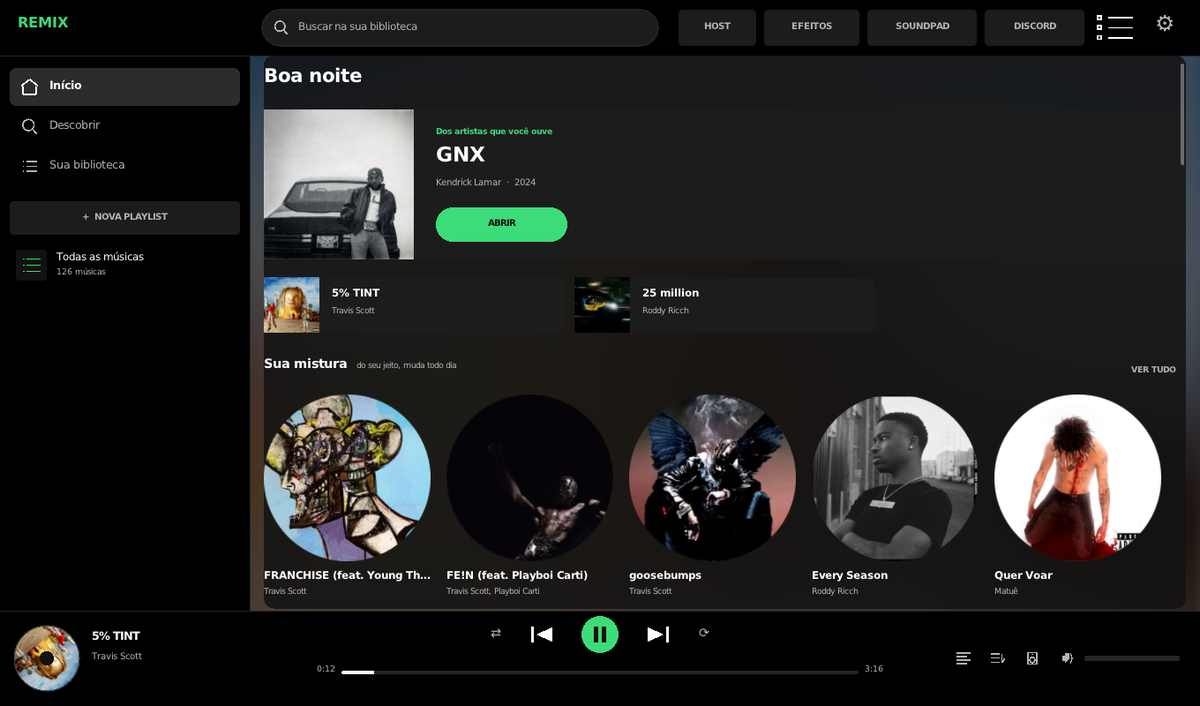
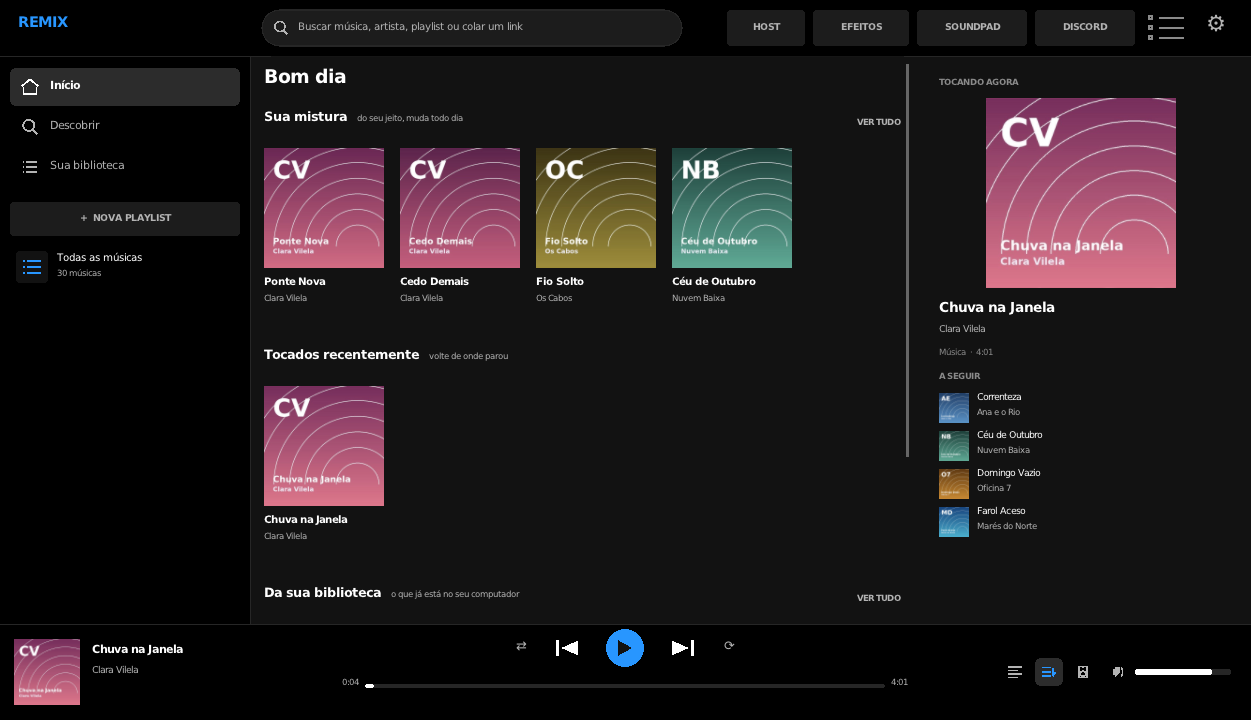
Separador de partes configurável, Início offline e telas de exemplo
O separador virou a mesma coisa que a fonte externa: uma linha de comando que
você aponta, com {entrada} e {saida}. O Remix executa, reconhece as partes pelo
nome dos arquivos e converte para o cache — dá para trocar de motor por um mais
leve ou mais preciso sem mexer no app, e quem só faz vocal + instrumental
funciona (as outras partes ficam marcadas como indisponíveis em vez de mandar
separar tudo de novo).

Início sem internet: dá para desligar as novidades (Configurações > FONTES
EXTERNAS). Aí o app não busca nada sozinho e a tela inicial monta as fileiras
com a sua biblioteca — inclusive a nova fileira "Da sua biblioteca".

As telas do README foram refeitas com uma biblioteca de exemplo: músicas,
artistas, capas e letra criados para a documentação, sem capa, foto ou obra de
terceiros em lugar nenhum.

diff --git a/linux/src/core/app_layout.h b/linux/src/core/app_layout.h
@@ -166,12 +166,13 @@ static void LayoutSettings(int w,int h){
     };
     auto sectOnline=[&](int x,int& y,int cw){
         // linha de status (y+50), 2 linhas de botoes, caminho onde salvar, "conferir de novo"
-        sect(x,y,cw,236,L"FONTES EXTERNAS");
+        sect(x,y,cw,276,L"FONTES EXTERNAS");
         int bw=(cw-50)/2;
         R_setOnMode={x+20,y+74,x+20+bw,y+108}; R_setOnFmt={x+30+bw,y+74,x+cw-20,y+108};
         R_setOnSrc={x+20,y+116,x+20+bw,y+150}; R_setOnFolder={x+30+bw,y+116,x+cw-20,y+150};
         R_setOnRecheck={x+20,y+186,x+20+std::min(230,bw),y+218};
-        y+=256;
+        R_setNovidades={x+20,y+226,x+20+bw,y+258};
+        y+=296;
         // caminho da CLI que a pessoa configurou + procurar no sistema
         sect(x,y,cw,186,L"PROGRAMA DE LINHA DE COMANDO (OPCIONAL)");
         R_setCli={x+20,y+112,x+cw-20,y+146};
@@ -422,6 +423,24 @@ static void RxMontarRecentes(){
     }
 }
 
+// "Da sua biblioteca": completa o Inicio com o que a pessoa ja tem (vale muito quando as
+// novidades online estao desligadas ou nao ha internet). Agrupado por artista.
+static void RxMontarBiblioteca(const std::vector<Track>& fonte){
+    g_rxBiblio.clear(); g_rxBiblioChave.clear();
+    if(fonte.empty()) return;
+    std::map<std::wstring,bool> ja;
+    for(auto& ch:g_rxRecentesChave) ja[ch]=true;
+    for(auto& ch:g_rxMisturaChave) ja[ch]=true;
+    std::vector<int> ord;
+    for(size_t i=0;i<fonte.size();i++) if(!ja.count(fonte[i].path)) ord.push_back((int)i);
+    std::sort(ord.begin(),ord.end(),[&](int a,int b){
+        const Track& x=fonte[(size_t)a]; const Track& y=fonte[(size_t)b];
+        int c=_wcsicmp(x.artist.c_str(),y.artist.c_str()); if(c) return c<0;
+        return _wcsicmp(x.title.c_str(),y.title.c_str())<0;
+    });
+    for(int i:ord){ if(g_rxBiblio.size()>=18) break; g_rxBiblio.push_back(i); g_rxBiblioChave.push_back(fonte[(size_t)i].path); }
+}
+
 static void BuildLayoutRemix(int w,int h,int chrome){
     const int topH=SI(56), barH=SI(96), gap=SI(14);
     g_headerH=topH;
@@ -582,18 +601,22 @@ static void BuildLayoutRemix(int w,int h,int chrome){
     int cols=std::max(1,(mw+gapX)/(cardW+gapX));
     int cardH=cardW+SI(56);
     desc::Home home; bool comRecentes=false, comGeneros=false;
-    bool comMistura=false;
+    bool comMistura=false, comBiblio=false;
     if(g_rxPag==RXP_INICIO){
-        desc::Atualizar(false,RxAvisarNovidades); home=desc::Copia();
+        if(g_cfg.novidadesOnline){ desc::Atualizar(false,RxAvisarNovidades); home=desc::Copia(); }
         RxMontarRecentes(); comRecentes=!g_rxRecentes.empty();
         RxMontarMistura((g_libCached&&!g_libTracks.empty())?g_libTracks:g_tracks); comMistura=g_rxMistura.size()>=6;
         RxMontarAtalhos((g_libCached&&!g_libTracks.empty())?g_libTracks:g_tracks);
+        RxMontarBiblioteca((g_libCached&&!g_libTracks.empty())?g_libTracks:g_tracks);
+        comBiblio=!g_rxBiblio.empty();
     }
     else {
         // Descobrir: grade de generos e, dentro de um, as paradas dele
-        desc::AtualizarGeneros(g_rxGenero,g_rxGeneroNome,RxAvisarNovidades);
-        if(!g_rxGenero.empty()) desc::HomeDoGenero(g_rxGenero,home);
-        else comGeneros=true;
+        if(g_cfg.novidadesOnline){
+            desc::AtualizarGeneros(g_rxGenero,g_rxGeneroNome,RxAvisarNovidades);
+            if(!g_rxGenero.empty()) desc::HomeDoGenero(g_rxGenero,home);
+            else comGeneros=true;
+        }
         int by=(int)R_rxMain.top+SI(8);
         R_rxBuscarOn={mxR-(int)S(150),by,mxR,by+SI(32)};
         if(!g_rxGenero.empty()) R_rxVoltar={(int)R_rxBuscarOn.left-(int)S(118),by,(int)R_rxBuscarOn.left-SI(8),by+SI(32)};
@@ -603,6 +626,7 @@ static void BuildLayoutRemix(int w,int h,int chrome){
     std::vector<int> locais;
     if(comMistura) locais.push_back(-3);
     if(comRecentes) locais.push_back(-1);
+    if(comBiblio) locais.push_back(-4);
     if(comGeneros) locais.push_back(-2);
     int nFil=(int)home.fileiras.size()+(int)locais.size();
     int y=(int)R_rxMain.top+SI(46)-g_rxScroll;        // espaco do titulo da pagina
@@ -641,6 +665,7 @@ static void BuildLayoutRemix(int w,int h,int chrome){
         int total = fonte==-1 ? (int)g_rxRecentes.size()
                   : fonte==-2 ? (int)generos.size()
                   : fonte==-3 ? (int)g_rxMistura.size()
+                  : fonte==-4 ? (int)g_rxBiblio.size()
                               : (int)home.fileiras[(size_t)fonte].itens.size();
         if(total<=0) continue;
         bool todos=(fonte==-2);                       // generos: sempre a grade inteira

diff --git a/linux/src/core/app_core.h b/linux/src/core/app_core.h
@@ -196,7 +196,7 @@ enum : int {
     Z_EQ_BASE=740, Z_SET_AUTOPLAY=760, Z_SET_SORT=761, Z_SET_SORTDIR=762, Z_EQ_ON=763, Z_EQ_RESET=764,
     Z_AUTOPLAY=765, Z_SORT=766, Z_VOL_ICON=767, Z_FOLDER_BTN=768, Z_CONFIRM_YES=769, Z_CONFIRM_NO=770, Z_PERF_TOGGLE=771, Z_BG_TOGGLE=772, Z_QUIT_BTN=773, Z_SYSMEDIA_TOGGLE=774, Z_TAB_TRACKS=780, Z_TAB_PLAYLISTS=781, Z_SEARCH_BOX=782, Z_SEARCH_CLEAR=783, Z_PL_BACK=784, Z_PL_NEW=785, Z_HK_RESET=786,
     Z_TAB_ONLINE=787, Z_PL_ADD=788, Z_PICK_DONE=789, Z_PICK_CANCEL=790, Z_ACTIVITY=791, Z_SET_ON_MODE=792, Z_SET_ON_FMT=793, Z_SET_ON_SRC=794,
-    Z_SET_ON_FOLDER=795, Z_SET_ON_RECHECK=796, Z_PL_MODE=797, Z_ON_CLOSE=798, Z_ON_QBOX=799, Z_ON_SEARCH=800, Z_ON_ADDALL=801, Z_ON_SRC_BASE=810, Z_ON_TAB_BASE=814, Z_SET_CLI=817, Z_SET_CLI_BUSCAR=818, Z_ON_CFG=819, Z_SET_SEP=820, Z_SET_SEP_BUSCAR=821, Z_SET_STEMSCPU=822,
+    Z_SET_ON_FOLDER=795, Z_SET_ON_RECHECK=796, Z_PL_MODE=797, Z_ON_CLOSE=798, Z_ON_QBOX=799, Z_ON_SEARCH=800, Z_ON_ADDALL=801, Z_ON_SRC_BASE=810, Z_ON_TAB_BASE=814, Z_SET_CLI=817, Z_SET_CLI_BUSCAR=818, Z_ON_CFG=819, Z_SET_SEP=820, Z_SET_SEP_BUSCAR=821, Z_SET_STEMSCPU=822, Z_SET_NOVIDADES=823,
     Z_SETTINGS_STYLE_BASE=820,   // +0 classico, +1 limpo, +2 spotify
     // Host: faixa 22000+ (na 1.4.0 ficaram em 821..838 e colidiam com Z_SETTINGS_STYLE_BASE+1/+2:
     // o botao HOST virava "Limpo" e LIGAR O HOST virava "Spotify + LED"). Os static_assert abaixo travam isso.
@@ -254,7 +254,7 @@ static std::vector<RECT> R_plCards, R_plPlay, R_plShuf;
 static RECT R_tabOnline, R_plAdd, R_plMode, R_pickDone, R_pickCancel, R_activity;
 static RECT R_setOnMode, R_setOnFmt, R_setOnSrc, R_setOnFolder, R_setOnRecheck, R_onlineInfo;
 static RECT R_setCli, R_setCliBuscar;   // FONTES EXTERNAS: caminho da CLI e "procurar no sistema"
-static RECT R_setSep, R_setSepBuscar, R_setStemsCpu;   // SEPARAR EM PARTES: linha de comando, escolher programa e perfil de CPU
+static RECT R_setSep, R_setSepBuscar, R_setStemsCpu, R_setNovidades;   // SEPARAR EM PARTES: linha de comando, escolher programa e perfil de CPU
 static RECT R_setWallChoose, R_setWallClear, R_setCoverBlur;
 static std::vector<RECT> R_themeCirclesSettings, R_runColors, R_playColors, R_navColors;
 static std::vector<RECT> R_partColors, R_ledColors;
@@ -321,6 +321,8 @@ static std::vector<int> g_rxAbertas;       // fileiras expandidas ("ver tudo")
 static std::vector<int> g_rxRecentes;             // "tocados recentemente": indices na lista em tela
 static std::vector<std::wstring> g_rxRecentesChave;   // ...e o caminho/URL de cada um
 static std::vector<int> g_rxMistura;               // "Sua mistura": faixas escolhidas pelo seu gosto
+static std::vector<int> g_rxBiblio;                // "Da sua biblioteca": o que voce tem e ainda nao apareceu
+static std::vector<std::wstring> g_rxBiblioChave;
 static std::vector<std::wstring> g_rxMisturaChave;
 static bool RxOn(){ return g_cfg.uiStyle!=UI_CLASSICO; }
 // ---- duracao das musicas locais (para a lista mostrar o tempo) --------------

diff --git a/linux/src/core/config.h b/linux/src/core/config.h
@@ -135,6 +135,9 @@ struct Config {
     // Separador externo: linha de comando que VOCE configura, com {entrada} e {saida}.
     // Vazio = usa o Python isolado que a pessoa tenha instalado antes, se existir.
     std::wstring sepCmd;
+    // Buscar novidades e recomendacoes na internet (catalogo publico do Deezer, so metadados).
+    // Desligado: o Inicio mostra so a sua biblioteca e o app nao fala com a internet sozinho.
+    bool novidadesOnline = true;
     bool shuffle = false;
     bool repeat = false;
 
@@ -455,6 +458,7 @@ struct Config {
             else if (k == L"Fx8D") fx8d = _wtoi(v.c_str());
             else if (k == L"StemsCpu") { stemsCpu = _wtoi(v.c_str()); if (stemsCpu < 1 || stemsCpu > 3) stemsCpu = 1; }
             else if (k == L"SepCmd") sepCmd = v;
+            else if (k == L"Novidades") novidadesOnline = (v != L"0");
             else if (k == L"StemMode") stemMode = (v == L"vocal" || v == L"instrumental" || v == L"bateria" || v == L"baixo" || v == L"outros") ? v : L"";
             else if (k == L"Shuffle") shuffle = (v == L"1");
             else if (k == L"Repeat") repeat = (v == L"1");
@@ -582,6 +586,7 @@ struct Config {
         ls.push_back(L"StemMode=" + stemMode);
         swprintf(b, 64, L"StemsCpu=%d", stemsCpu); ls.push_back(b);
         ls.push_back(L"SepCmd=" + sepCmd);
+        swprintf(b, 64, L"Novidades=%d", novidadesOnline ? 1 : 0); ls.push_back(b);
         ls.push_back(L"Shuffle="); ls.back() += shuffle ? L"1" : L"0";
         ls.push_back(L"Repeat=");  ls.back() += repeat ? L"1" : L"0";
         swprintf(b, 64, L"UIScale=%d", uiScale); ls.push_back(b);

diff --git a/linux/src/core/app_input.h b/linux/src/core/app_input.h
@@ -89,6 +89,7 @@ static int HitTest(int x,int y){
         if(PtIn(R_setHostName,x,y)) return Z_SET_HOST_NAME; if(PtIn(R_setHostTunnel,x,y)) return Z_SET_HOST_TUNNEL; if(PtIn(R_setHostLan,x,y)) return Z_SET_HOST_LAN;
         if(PtIn(R_setCli,x,y)) return Z_SET_CLI;
         if(PtIn(R_setCliBuscar,x,y)) return Z_SET_CLI_BUSCAR;
+        if(PtIn(R_setNovidades,x,y)) return Z_SET_NOVIDADES;
         if(PtIn(R_setSep,x,y)) return Z_SET_SEP;
         if(PtIn(R_setSepBuscar,x,y)) return Z_SET_SEP_BUSCAR;
         if(PtIn(R_setStemsCpu,x,y)) return Z_SET_STEMSCPU;
@@ -517,6 +518,11 @@ static void OnLButtonDown(int x,int y){
     if(id==Z_SET_HOST_LAN){ g_cfg.hostLan=!g_cfg.hostLan; g_cfg.Save(); if(host::Running()){ HostStopNow(); HostStartFromCfg(); } return; }
     if(id==Z_SET_CLI){ g_editArtist=true; g_editMode=12; g_editTrack=-1; g_editBuf=g_cfg.mediaCli; return; }
     if(id==Z_SET_CLI_BUSCAR){ PlatformPickProgramAsync(EV_PICK_CLI); return; }   // a pessoa escolhe o arquivo
+    if(id==Z_SET_NOVIDADES){
+        g_cfg.novidadesOnline=!g_cfg.novidadesOnline; g_cfg.Save();
+        SetStatus(g_cfg.novidadesOnline?L"Novidades ligadas: o Início mostra o que está em alta (metadados de catálogo público).":L"Novidades desligadas: o Início mostra só a sua biblioteca, e o app não busca nada sozinho.",4000);
+        g_rxScroll=0; BuildLayout(); return;
+    }
     if(id==Z_SET_SEP){ g_editArtist=true; g_editMode=13; g_editTrack=-1; g_editBuf=g_cfg.sepCmd; return; }
     if(id==Z_SET_SEP_BUSCAR){ PlatformPickProgramAsync(EV_PICK_SEP); return; }
     if(id==Z_SET_STEMSCPU){

diff --git a/linux/src/shell/app_draw_remix.h b/linux/src/shell/app_draw_remix.h
@@ -523,6 +523,7 @@ static void RxDrawInicio(int w,int h,Color ab,Color white,Color gray){
         if(fl.fonte==-1){ titulo=L"Tocados recentemente"; nota=L"volte de onde parou"; }
         else if(fl.fonte==-2){ titulo=L"Explorar por gênero"; nota=L"as paradas de cada estilo"; }
         else if(fl.fonte==-3){ titulo=L"Sua mistura"; nota=L"do seu jeito, muda todo dia"; }
+        else if(fl.fonte==-4){ titulo=L"Da sua biblioteca"; nota=L"o que já está no seu computador"; }
         else if((size_t)fl.fonte<home.fileiras.size()){ titulo=home.fileiras[(size_t)fl.fonte].titulo; nota=home.fileiras[(size_t)fl.fonte].nota; }
         RectF hr=RF(fl.head);
         if(hr.Y<main.Y+main.Height&&hr.Y+S(40)>main.Y){
@@ -552,8 +553,8 @@ static void RxDrawInicio(int w,int h,Color ab,Color white,Color gray){
             gfx::TextRect(gI.titulo,RectF(art.X+S(8),art.Y+art.Height-S(34),art.Width-S(16),S(26)),S(13),white,true,gfx::Near,true,gfx::EllipsisChar);
             continue;
         }
-        if(fl.fonte==-1||fl.fonte==-3){
-            const std::vector<int>& lista=(fl.fonte==-3)?g_rxMistura:g_rxRecentes;
+        if(fl.fonte==-1||fl.fonte==-3||fl.fonte==-4){
+            const std::vector<int>& lista=(fl.fonte==-3)?g_rxMistura:(fl.fonte==-4?g_rxBiblio:g_rxRecentes);
             if((size_t)k.item>=lista.size()) continue;
             const std::vector<Track>& fonteT=(g_libCached&&!g_libTracks.empty())?g_libTracks:g_tracks;
             int ti=lista[(size_t)k.item]; if(ti<0||ti>=(int)fonteT.size()) continue;

diff --git a/linux/src/shell/app_draw2.h b/linux/src/shell/app_draw2.h
@@ -183,6 +183,9 @@ static void DrawSettings(int w,int h){
             btn(R_setStemsCpu,std::wstring(L"CPU: ")+stems::PerfilNome(g_cfg.stemsCpu)+L" ("+std::to_wstring(nuc)+L"/"+std::to_wstring(tot>0?tot:nuc)+L" núcleos)"+seta,g_cfg.stemsCpu>1);
         }
         btn(R_setOnRecheck,L"PROCURAR DE NOVO",false);
+        btn(R_setNovidades,g_cfg.novidadesOnline?L"NOVIDADES NO INÍCIO: LIGADAS":L"NOVIDADES NO INÍCIO: DESLIGADAS",g_cfg.novidadesOnline);
+        gfx::TextRect(g_cfg.novidadesOnline?L"O Início mostra o que está em alta (só metadados de um catálogo público). Desligado, mostra só a sua biblioteca.":L"O Remix não busca novidades: o Início monta as fileiras com a sua própria biblioteca.",
+            RectF((float)R_setNovidades.right+14,(float)R_setNovidades.top,(float)(R_setOnFolder.right-R_setNovidades.right-14),(float)(R_setNovidades.bottom-R_setNovidades.top)),sm,gray,false,gfx::Near,true,gfx::EllipsisChar);
         gfx::TextRect(okT?L"Spotify, Deezer e Apple Music: o Remix lê a lista e acha cada música no YouTube Music.":L"Instale pela sua distro o ffmpeg e, se quiser fontes externas, uma CLI compatível — depois aponte o caminho dela aqui embaixo.",
             RectF((float)R_setOnRecheck.right+14,(float)R_setOnRecheck.top,(float)(R_setOnFolder.right-R_setOnRecheck.right-14),(float)(R_setOnRecheck.bottom-R_setOnRecheck.top)),sm,gray,false,gfx::Near,true,gfx::EllipsisChar);
     }

diff --git a/linux/src/core/app_online_c.h b/linux/src/core/app_online_c.h
@@ -202,6 +202,7 @@ static void RxClicarCard(size_t ci,bool tocar){
     }
     if(fonte==-1){ RxTocarLocal(g_rxRecentesChave,(size_t)k.item); return; }
     if(fonte==-3){ RxTocarLocal(g_rxMisturaChave,(size_t)k.item); return; }
+    if(fonte==-4){ RxTocarLocal(g_rxBiblioChave,(size_t)k.item); return; }
     desc::Home h;
     if(g_rxPag==RXP_DESCOBRIR){ if(!desc::HomeDoGenero(g_rxGenero,h)) return; }
     else h=desc::Copia();

diff --git a/README.md b/README.md
@@ -59,18 +59,32 @@ que **você** instala e configura — nada é distribuído, baixado ou embutido 
 Reproduzir é a ação principal: o áudio é decodificado **em memória** (chunked), sem passar pelo
 disco. Salvar uma cópia é uma ação secundária, sempre escolhida por você.
 
+## Separar em partes (opcional)
+
+O Remix toca vocal, bateria, baixo ou "só a música" usando um **separador que você instala e
+aponta** em *Configurações > SEPARAR EM PARTES*: a linha de comando leva `{entrada}` (o arquivo) e
+`{saida}` (a pasta), e o Remix reconhece cada parte pelo nome dos arquivos que aparecerem. Dá para
+trocar de motor quando quiser — inclusive por um mais leve ou mais preciso — sem mexer no app, e
+separadores que só fazem vocal + instrumental funcionam (as outras partes ficam marcadas como
+indisponíveis).
+
+Separar é a tarefa mais pesada do programa, então tem **teto de CPU**: o perfil (LEVE, o padrão,
+EQUILIBRADO ou RÁPIDO) decide quantos núcleos a separação pode usar, e o processo roda com
+prioridade baixa preso a esses núcleos. No perfil leve, com 12 núcleos, a separação fica em 3 — dá
+para jogar enquanto isso.
+
 <p align="center">
-  <img src="linux/docs/screenshots/inicio.png" alt="Tela inicial com as novidades (Linux)" width="49%">
-  <img src="linux/docs/screenshots/biblioteca.png" alt="Biblioteca com o painel Tocando agora (Linux)" width="49%">
+  <img src="linux/docs/screenshots/inicio.png" alt="Tela inicial e o painel Tocando agora" width="49%">
+  <img src="linux/docs/screenshots/biblioteca.png" alt="Biblioteca em lista, com capa, origem e duração" width="49%">
 </p>
 <p align="center">
-  <img src="linux/docs/screenshots/descobrir.png" alt="Descobrir: navegar por gênero" width="32%">
+  <img src="linux/docs/screenshots/grade.png" alt="Biblioteca em grade" width="32%">
   <img src="linux/docs/screenshots/letra.png" alt="Letra sincronizada" width="32%">
-  <img src="linux/docs/screenshots/busca-online.png" alt="Procurar playlists prontas online" width="32%">
+  <img src="linux/docs/screenshots/classico.png" alt="Estilo clássico" width="32%">
 </p>
-<p align="center">
-  <img src="linux/docs/screenshots/classico.png" alt="Estilo clássico, que continua" width="60%">
-</p>
+
+<sub>As telas usam uma <b>biblioteca de exemplo</b>: músicas, artistas, capas e letra criados para a
+documentação. Nenhuma obra, capa ou foto de terceiros aparece aqui.</sub>
 
 ## Créditos
 
@@ -398,6 +412,10 @@ O app só fala com a internet quando você pede: metadados de novidades e artist
 Deezer), letras (LRCLIB), páginas públicas de Spotify/Apple Music para ler o nome das faixas de um
 link, e a fonte externa que você configurou. O Host é você quem liga, e cada aparelho precisa ser
 autorizado.
+
+Se preferir, desligue **NOVIDADES NO INÍCIO** em *Configurações > FONTES EXTERNAS*: aí o Remix não
+busca nada sozinho e a tela inicial monta as fileiras com a sua própria biblioteca (Sua mistura,
+Tocados recentemente, Da sua biblioteca).
 
 ## Como o projeto é organizado por dentro
 

diff --git a/linux/docs/ARQUITETURA.md b/linux/docs/ARQUITETURA.md
@@ -84,6 +84,19 @@ caminho, o app roda o programa uma vez com elas e, se não forem aceitas, para d
 
 Nenhum outro arquivo do núcleo executa a CLI. Conferir é um `grep` (seção 5).
 
+### A outra fronteira: o separador de partes (`stems.h`)
+
+Mesmas regras, outro programa. A pessoa configura uma **linha de comando** com `{entrada}` e
+`{saida}` (`SepCmd` no `config.ini`); o Remix executa, lê a pasta e reconhece cada parte pelo nome
+dos arquivos (vocal, instrumental, bateria, baixo, outros — em português ou inglês), convertendo
+para FLAC no cache. Nada é instalado ou embutido pelo app, e um separador que só faça duas partes
+funciona: as outras ficam marcadas como indisponíveis na interface.
+
+Como separar é a tarefa mais pesada do programa, ela tem **teto de CPU**: `PerfilCpu()` (leve,
+equilibrado, rápido) define quantos núcleos, e `ComLimiteDeCpu()` roda o processo com `nice -n 15`
+e `taskset -c 0-(n-1)`. Assim o limite vale até para um separador que se autoconfigure — dentro do
+`taskset`, o `nproc` dele já enxerga só os núcleos liberados.
+
 ---
 
 ## 3. Degradação graciosa
